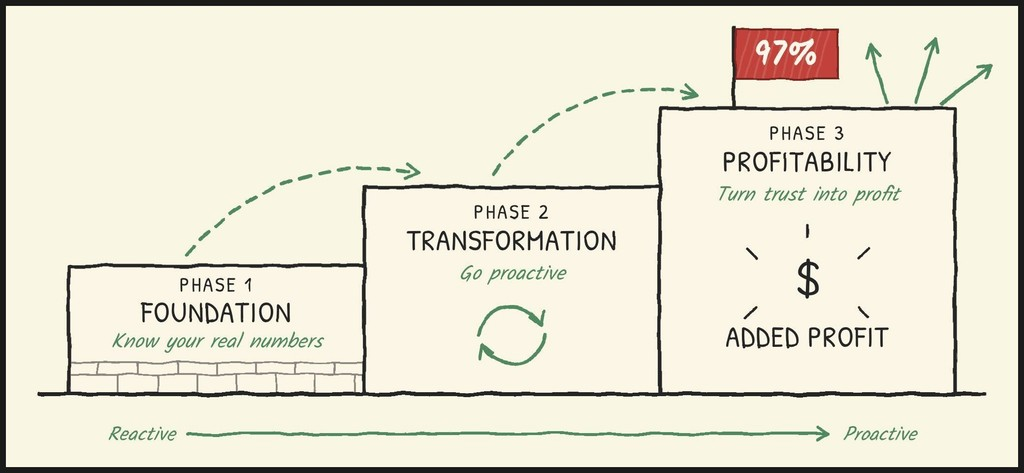
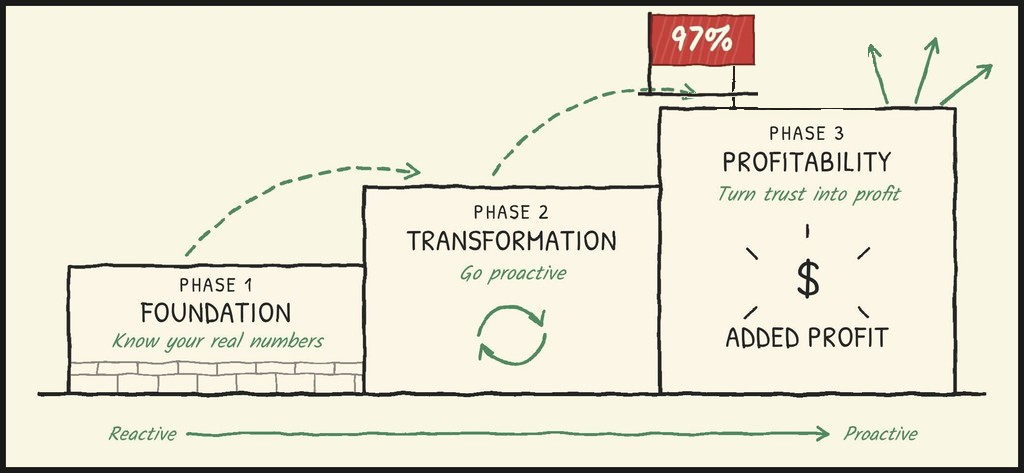
Option A: Roadmap mist band, tightened cards, flag move (#4)
Move Roadmap out of the Formula into a full-width mist band, restyle Get Started on stone, tighten phase cards, update copy, and relocate the 97% flag on the official diagram.

Changed region(s): [[0.625, 0.0296, 0.8438, 0.2368]]

diff --git a/index.html b/index.html
@@ -296,6 +296,7 @@ body{text-align:center}
 .foot{justify-content:center;text-align:center}
 .letter .btns,
 #flywheel .btns,
+#get-started .btns,
 #numbers .btns{justify-content:center}
 
 #numbers .paper,
@@ -447,24 +448,21 @@ body{text-align:center}
 .formula-card-desc{
   margin:0;color:var(--phase-body);line-height:1.55;font-size:.88rem;
 }
-.flywheel-cta-wrap{
-  margin-top:clamp(2.5rem,5vw,3.5rem);
-  padding:clamp(1.25rem,3vw,1.85rem) clamp(1rem,3vw,1.5rem);
-  background:var(--mist);
+.get-started{
+  padding-block:clamp(2rem,4vw,3rem);
+  background:var(--page);
+}
+.get-started-box{
+  padding:clamp(1.35rem,3vw,1.9rem) clamp(1.1rem,3vw,1.65rem);
+  background:var(--stone);
   border-radius:4px;
+  text-align:center;
 }
-.flywheel-cta-rule{
-  border:0;height:2px;background:var(--rule-ink);
-  margin:0 0 clamp(1.1rem,2.5vw,1.45rem);opacity:.85;
-}
-.flywheel-cta-inner h3{font-size:clamp(1.35rem,2.4vw,1.7rem);margin:0 0 .75rem}
-.flywheel-cta-inner p{color:var(--grey);margin:0 0 1rem}
-.flywheel-cta-inner p:last-of-type{margin-bottom:0}
+.get-started-box h3{font-size:clamp(1.35rem,2.4vw,1.7rem);margin:0 0 .75rem}
+.get-started-box p{color:var(--grey);margin:0 0 1rem}
+.get-started-box p:last-of-type{margin-bottom:0}
 
 .roadmap{
-  margin-top:clamp(2.25rem,4.5vw,3.15rem);
-  padding-top:clamp(1.35rem,3vw,1.85rem);
-  border-top:1px solid var(--rule);
   text-align:center;
 }
 .roadmap-inner{
@@ -501,7 +499,7 @@ body{text-align:center}
   line-height:1.2;margin:0 0 .5rem;color:var(--ink);
 }
 .roadmap-card-tag{
-  margin:0 0 .85rem;font-weight:600;color:var(--green);line-height:1.35;
+  margin:0 0 1rem;font-weight:600;color:var(--green);line-height:1.35;
   font-size:1rem;
 }
 .roadmap-card-desc{
@@ -820,12 +818,17 @@ body{text-align:center}
     </figure>
 
 
-    <section class="roadmap" id="roadmap" aria-labelledby="roadmap-heading">
+  </section>
+
+  <!-- ============ ROADMAP ============ -->
+  <section class="band-mist" id="roadmap" aria-labelledby="roadmap-heading">
+    <div class="wrap">
+    <div class="roadmap">
       <div class="roadmap-inner">
         <h2 class="roadmap-h2" id="roadmap-heading">The Roadmap to <span class="red">97%</span></h2>
-        <p class="roadmap-intro">I install the formula in three phases. First we build the foundation, then your team goes proactive, then that trust turns into profit. Each phase builds on the one before it.</p>
+        <p class="roadmap-intro">I install the formula in 3 phases to ensure 97% retention and beyond.</p>
         <figure class="roadmap-diagram">
-          <img src="media/roadmap-97.png" width="1024" height="473" alt="The roadmap as three rising steps: Foundation, Transformation and Profitability, with the 97% flag planted where Profitability begins. An arrow underneath runs from Reactive to Proactive.">
+          <img src="media/roadmap-97.png" width="1024" height="473" alt="The roadmap as three rising steps: Foundation, Transformation and Profitability, with the 97% flag planted on the first ledge of Profitability. An arrow underneath runs from Reactive to Proactive.">
         </figure>
         <ol class="roadmap-cards phase-cards-grid">
           <li class="roadmap-card phase-card-shell">
@@ -833,7 +836,6 @@ body{text-align:center}
             <p class="roadmap-card-phase">Phase 1</p>
             <h3 class="roadmap-card-title">Foundation</h3>
             <p class="roadmap-card-tag">Know your real numbers.</p>
-            <p class="roadmap-card-desc">We find exactly where customers are slipping away, then give your team the training and the dashboard to see it for themselves.</p>
             <hr class="roadmap-card-rule" aria-hidden="true">
             <ul class="roadmap-card-items">
               <li>Complete Retention Audit</li>
@@ -848,7 +850,6 @@ body{text-align:center}
             <p class="roadmap-card-phase">Phase 2</p>
             <h3 class="roadmap-card-title">Transformation</h3>
             <p class="roadmap-card-tag">Go proactive.</p>
-            <p class="roadmap-card-desc">Your Account Managers stop reacting and start acting on signals, and they get paid for the results they create. This is the climb to 97%.</p>
             <hr class="roadmap-card-rule" aria-hidden="true">
             <ul class="roadmap-card-items">
               <li>Intelligence &amp; Signals Flow</li>
@@ -864,7 +865,6 @@ body{text-align:center}
             <p class="roadmap-card-phase">Phase 3</p>
             <h3 class="roadmap-card-title">Profitability</h3>
             <p class="roadmap-card-tag">Turn trust into profit.</p>
-            <p class="roadmap-card-desc">Once you&apos;re at <span class="red">97%</span>, your team turns that trust into growth from the customers you already have, without adding headcount.</p>
             <hr class="roadmap-card-rule" aria-hidden="true">
             <ul class="roadmap-card-items">
               <li>NPS &amp; CSAT Cadence</li>
@@ -878,22 +878,22 @@ body{text-align:center}
         </ol>
         <p class="roadmap-close">Every business moves at its own pace, but nobody skips a phase. That&apos;s why the results hold.</p>
       </div>
-    </section>
+    </div>
+    </div>
+  </section>
 
-    <div class="flywheel-cta-wrap measure">
-      <hr class="flywheel-cta-rule" aria-hidden="true">
-      <div class="flywheel-cta-inner">
-        <h3>Get Started Today</h3>
-        <p>Getting started is easy, no matter your business's size.</p>
-        <p>It takes just one onboarding session and a weekly call with me and your account management team.</p>
-        <p>When you work with me, <span class="hl">I own the result of getting you to 97%</span>. That's my promise.</p>
+  <section class="get-started" aria-labelledby="get-started-heading">
+    <div class="wrap">
+      <div class="get-started-box measure">
+        <h3 id="get-started-heading">Get Started Today</h3>
+        <p>Getting started is easy, no matter your agency&apos;s size.</p>
+        <p>I coach your team personally, weekly, and <span class="hl">I own the result of getting you to 97% and beyond. That&apos;s my promise.</span></p>
         <p>Click below to schedule your 97% Retention Review with me today and see if you qualify to work with me and my team.</p>
         <div class="btns" style="margin-top:1.6rem">
           <a class="btn btn-green btn-lg" href="#book" data-book>Book Your 97% Retention Review with Josh</a>
         </div>
       </div>
     </div>
-
   </section>
 
   <!-- ============ CALCULATOR ============ -->
